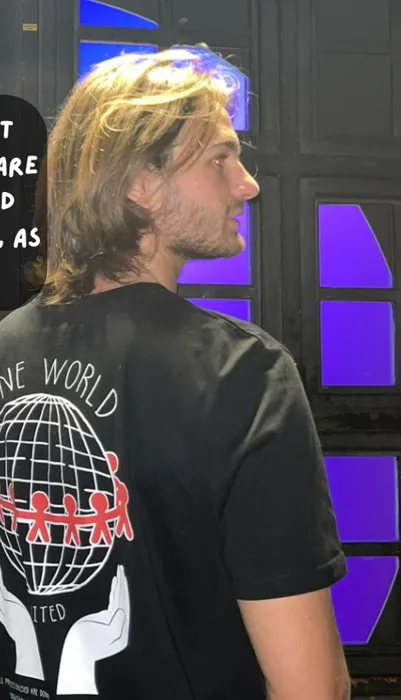
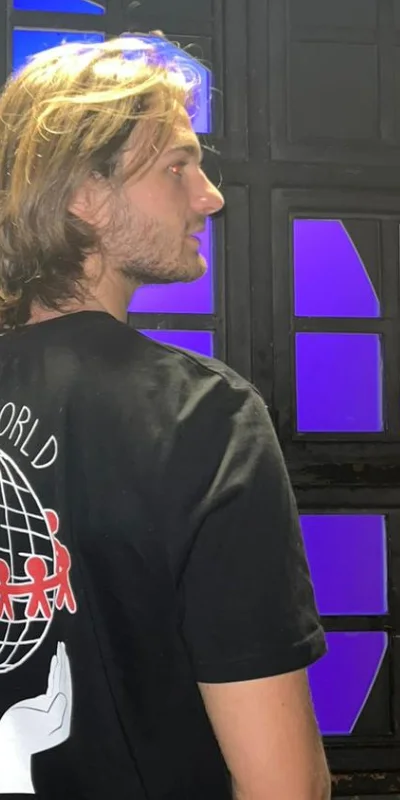
Home voices: recrop the four photos so people show, square cards
Claude-Session: https://claude.ai/code/session_017TLXGwNkjT5qngH1c83wKu

diff --git a/src/v2/HomeV2.tsx b/src/v2/HomeV2.tsx
@@ -38,10 +38,10 @@ const BEST = [
 const TRUST = ['Printed to order in Europe', 'Ships across Europe', 'Six named partners', 'The partner’s amount is already in the price']
 // Friends and customers in their own words (quotes shortened from what they wrote; Nico is asking each for their OK).
 const VOICES = [
-  { name: 'Sandro Gambardella', img: '/v2/img/voice-sandro.webp', pos: '50% 30%', quote: 'Other than the really cool designs, I love knowing that after I buy something, it goes to a cause that fuels something positive.' },
-  { name: 'Shaan Patel', img: '/v2/img/voice-shaan.webp', pos: '50% 40%', quote: "It's not just about clothes. It's about making a difference and being part of something bigger that actually cares about the planet and people." },
-  { name: 'Ilai Bachrach', img: '/v2/img/voice-ilai.webp', pos: '50% 25%', quote: 'Perfect World for me is about creating one world where we care for each other and love each other the way we are, as imperfect beings.' },
-  { name: 'Nico Higgins', img: '/v2/img/voice-nico.webp', pos: '50% 30%', quote: "It makes it easier for people to make a difference and help charities they may not have heard of." },
+  { name: 'Sandro Gambardella', img: '/v2/img/voice-sandro.webp', pos: '45% 40%', quote: 'Other than the really cool designs, I love knowing that after I buy something, it goes to a cause that fuels something positive.' },
+  { name: 'Shaan Patel', img: '/v2/img/voice-shaan.webp', pos: '50% 30%', quote: "It's not just about clothes. It's about making a difference and being part of something bigger that actually cares about the planet and people." },
+  { name: 'Ilai Bachrach', img: '/v2/img/voice-ilai.webp', pos: '50% 18%', quote: 'Perfect World for me is about creating one world where we care for each other and love each other the way we are, as imperfect beings.' },
+  { name: 'Nico Higgins', img: '/v2/img/voice-nico.webp', pos: '50% 35%', quote: "It makes it easier for people to make a difference and help charities they may not have heard of." },
 ]
 
 /** The film fills the hero and plays by itself, muted and looping. It opens on the 11.11 card, then the copy fades in over it. */

diff --git a/src/v2/landing.css b/src/v2/landing.css
@@ -667,7 +667,7 @@
 
 .pwl-voices{list-style:none;margin:clamp(24px,3vw,40px) 0 0;padding:0;display:grid;grid-template-columns:repeat(4,minmax(0,1fr));gap:clamp(12px,1.6vw,22px)}
 .pwl-voices figure{margin:0;height:100%;display:flex;flex-direction:column;border-radius:24px;overflow:hidden;background:#f3ebdd;color:#1c1813}
-.pwl-voices img{display:block;width:100%;aspect-ratio:4/5;object-fit:cover}
+.pwl-voices img{display:block;width:100%;aspect-ratio:1;object-fit:cover}
 .pwl-voices blockquote{margin:0;padding:16px 16px 6px;font-size:16px;line-height:1.45;font-weight:500;flex:1}
 .pwl-voices figcaption{margin:0 16px 16px;align-self:flex-start;padding:5px 12px;border-radius:999px;background:#c0322a;color:#fff;font:700 12px 'JetBrains Mono',monospace;letter-spacing:.04em}
 @media (max-width:900px){
